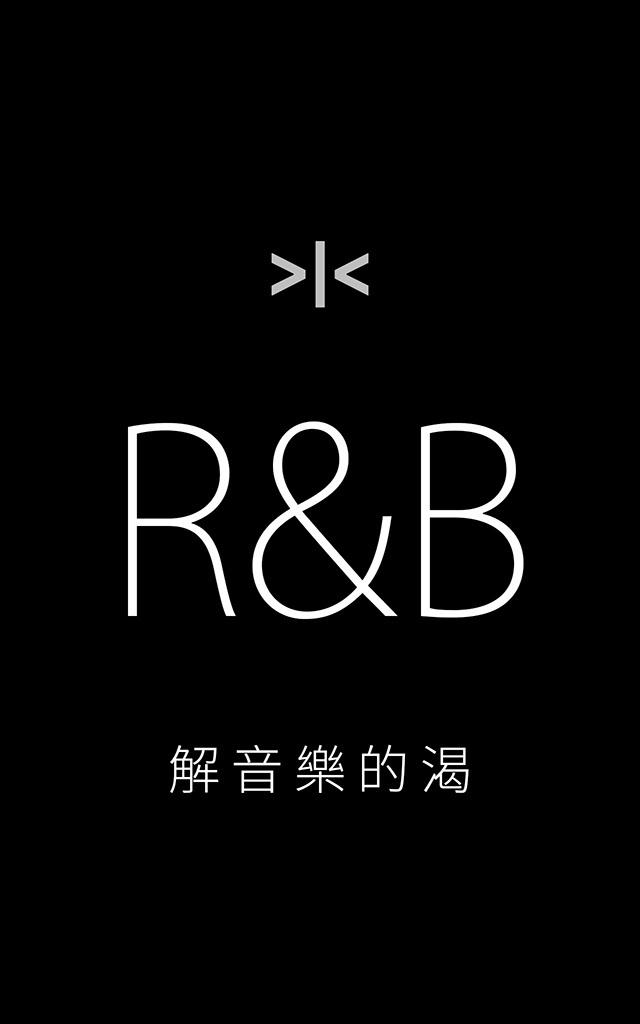
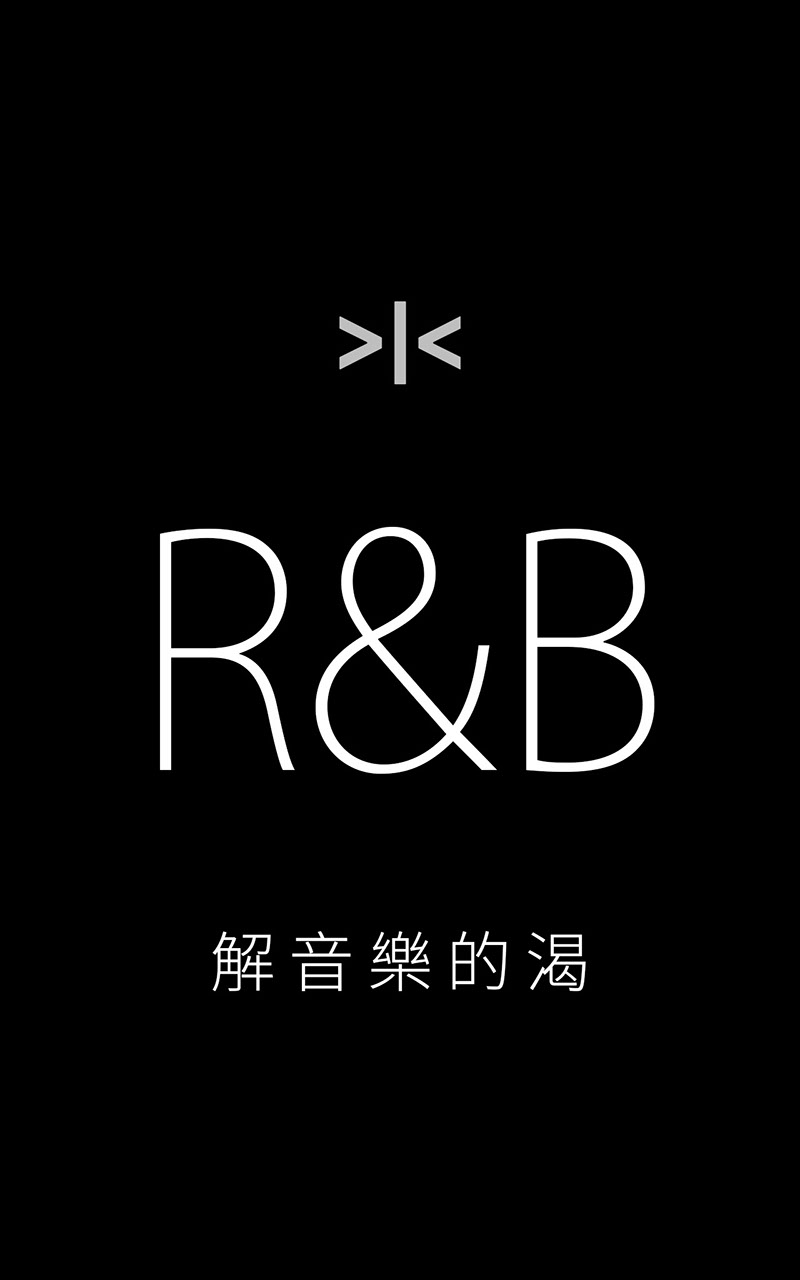
suisuisui

diff --git a/suisuisui/css/01.css b/suisuisui/css/01.css
@@ -1,1 +1,1 @@
-.version._01{color:#0000F1;background-color:#FFD65C;}#muse_css_mq{background-color:#FFFFFF;}#page{z-index:1;width:800px;min-height:1986px;background-image:none;border-width:0px;border-color:#000000;background-color:transparent;padding-bottom:62px;margin-left:auto;margin-right:auto;}#u185{z-index:2;min-height:1986px;background-color:#000000;}#u185_align_to_page{margin-left:auto;margin-right:auto;position:relative;width:800px;padding-bottom:120px;}#u183{z-index:3;width:640px;background-color:transparent;left:80px;position:relative;}#u181{z-index:7;width:128px;background-color:transparent;left:336px;margin-top:714px;position:relative;}.js body{visibility:hidden;}.js body.initialized{visibility:visible;}#u185-bw{z-index:2;min-height:1986px;}.css_verticalspacer .verticalspacer{height:calc(100vh - 2047px);}#u179{z-index:5;width:512px;background-color:transparent;position:relative;margin-right:-10000px;margin-top:-962px;left:144px;}.html{background-color:#000000;}body{position:relative;min-width:800px;}.verticalspacer{min-height:1px;}
+.version._01{color:#00001A;background-color:#3632C5;}#muse_css_mq{background-color:#FFFFFF;}#page{z-index:1;width:800px;min-height:1986px;background-image:none;border-width:0px;border-color:#000000;background-color:transparent;padding-bottom:62px;margin-left:auto;margin-right:auto;}#u185{z-index:2;min-height:1280px;background-color:#000000;padding-bottom:706px;}#u185_align_to_page{margin-left:auto;margin-right:auto;position:relative;width:800px;}#u183{z-index:3;width:800px;background-color:transparent;position:relative;margin-right:-10000px;}.js body{visibility:hidden;}.js body.initialized{visibility:visible;}#u185-bw{z-index:2;min-height:1280px;}.css_verticalspacer .verticalspacer{height:calc(100vh - 2047px);}#u179{z-index:5;width:512px;background-color:transparent;position:relative;margin-right:-10000px;margin-top:-706px;left:144px;}.html{background-color:#000000;}body{position:relative;min-width:800px;}.verticalspacer{min-height:1px;}

diff --git a/suisuisui/css/02.css b/suisuisui/css/02.css
@@ -1,1 +1,1 @@
-.version._02{color:#0000E3;background-color:#D44070;}#muse_css_mq{background-color:#FFFFFF;}#page{z-index:1;width:800px;min-height:1986px;background-image:none;border-width:0px;border-color:#000000;background-color:transparent;padding-bottom:62px;margin-left:auto;margin-right:auto;}#u225{z-index:2;min-height:1986px;background-color:#000000;}#u225_align_to_page{margin-left:auto;margin-right:auto;position:relative;width:800px;padding-bottom:120px;}#u223{z-index:3;width:640px;background-color:transparent;left:80px;position:relative;}#u221{z-index:7;width:128px;background-color:transparent;left:336px;margin-top:714px;position:relative;}.js body{visibility:hidden;}.js body.initialized{visibility:visible;}#u225-bw{z-index:2;min-height:1986px;}.css_verticalspacer .verticalspacer{height:calc(100vh - 2047px);}#u219{z-index:5;width:512px;background-color:transparent;position:relative;margin-right:-10000px;margin-top:-962px;left:144px;}.html{background-color:#000000;}body{position:relative;min-width:800px;}.verticalspacer{min-height:1px;}
+.version._02{color:#000007;background-color:#C301A1;}#muse_css_mq{background-color:#FFFFFF;}#page{z-index:1;width:800px;min-height:1986px;background-image:none;border-width:0px;border-color:#000000;background-color:transparent;padding-bottom:62px;margin-left:auto;margin-right:auto;}#u225{z-index:2;min-height:1280px;background-color:#000000;padding-bottom:706px;}#u225_align_to_page{margin-left:auto;margin-right:auto;position:relative;width:800px;}#u223{z-index:3;width:800px;background-color:transparent;position:relative;margin-right:-10000px;}.js body{visibility:hidden;}.js body.initialized{visibility:visible;}#u225-bw{z-index:2;min-height:1280px;}.css_verticalspacer .verticalspacer{height:calc(100vh - 2047px);}#u219{z-index:5;width:512px;background-color:transparent;position:relative;margin-right:-10000px;margin-top:-706px;left:144px;}.html{background-color:#000000;}body{position:relative;min-width:800px;}.verticalspacer{min-height:1px;}

diff --git a/suisuisui/css/03.css b/suisuisui/css/03.css
@@ -1,1 +1,1 @@
-.version._03{color:#00001B;background-color:#CFC62A;}#muse_css_mq{background-color:#FFFFFF;}#page{z-index:1;width:800px;min-height:1986px;background-image:none;border-width:0px;border-color:#000000;background-color:transparent;padding-bottom:62px;margin-left:auto;margin-right:auto;}#u239{z-index:2;min-height:1986px;background-color:#000000;}#u239_align_to_page{margin-left:auto;margin-right:auto;position:relative;width:800px;padding-bottom:120px;}#u237{z-index:3;width:640px;background-color:transparent;left:80px;position:relative;}#u235{z-index:7;width:128px;background-color:transparent;left:336px;margin-top:714px;position:relative;}.js body{visibility:hidden;}.js body.initialized{visibility:visible;}#u239-bw{z-index:2;min-height:1986px;}.css_verticalspacer .verticalspacer{height:calc(100vh - 2047px);}#u240{z-index:5;width:512px;background-color:transparent;position:relative;margin-right:-10000px;margin-top:-962px;left:144px;}.html{background-color:#000000;}body{position:relative;min-width:800px;}.verticalspacer{min-height:1px;}
+.version._03{color:#0000E2;background-color:#FF79B7;}#muse_css_mq{background-color:#FFFFFF;}#page{z-index:1;width:800px;min-height:1986px;background-image:none;border-width:0px;border-color:#000000;background-color:transparent;padding-bottom:62px;margin-left:auto;margin-right:auto;}#u239{z-index:2;min-height:1280px;background-color:#000000;padding-bottom:706px;}#u239_align_to_page{margin-left:auto;margin-right:auto;position:relative;width:800px;}#u237{z-index:3;width:800px;background-color:transparent;position:relative;margin-right:-10000px;}.js body{visibility:hidden;}.js body.initialized{visibility:visible;}#u239-bw{z-index:2;min-height:1280px;}.css_verticalspacer .verticalspacer{height:calc(100vh - 2047px);}#u240{z-index:5;width:512px;background-color:transparent;position:relative;margin-right:-10000px;margin-top:-706px;left:144px;}.html{background-color:#000000;}body{position:relative;min-width:800px;}.verticalspacer{min-height:1px;}

diff --git a/suisuisui/css/04.css b/suisuisui/css/04.css
@@ -1,1 +1,1 @@
-.version._04{color:#0000ED;background-color:#2154FC;}#muse_css_mq{background-color:#FFFFFF;}#page{z-index:1;width:800px;min-height:1986px;background-image:none;border-width:0px;border-color:#000000;background-color:transparent;padding-bottom:62px;margin-left:auto;margin-right:auto;}#u279{z-index:2;min-height:1986px;background-color:#000000;}#u279_align_to_page{margin-left:auto;margin-right:auto;position:relative;width:800px;padding-bottom:120px;}#u275{z-index:3;width:640px;background-color:transparent;left:80px;position:relative;}#u277{z-index:7;width:128px;background-color:transparent;left:336px;margin-top:714px;position:relative;}.js body{visibility:hidden;}.js body.initialized{visibility:visible;}#u279-bw{z-index:2;min-height:1986px;}.css_verticalspacer .verticalspacer{height:calc(100vh - 2047px);}#u280{z-index:5;width:512px;background-color:transparent;position:relative;margin-right:-10000px;margin-top:-962px;left:144px;}.html{background-color:#000000;}body{position:relative;min-width:800px;}.verticalspacer{min-height:1px;}
+.version._04{color:#000015;background-color:#7C0BF2;}#muse_css_mq{background-color:#FFFFFF;}#page{z-index:1;width:800px;min-height:1986px;background-image:none;border-width:0px;border-color:#000000;background-color:transparent;padding-bottom:62px;margin-left:auto;margin-right:auto;}#u279{z-index:2;min-height:1280px;background-color:#000000;padding-bottom:706px;}#u279_align_to_page{margin-left:auto;margin-right:auto;position:relative;width:800px;}#u275{z-index:3;width:800px;background-color:transparent;position:relative;margin-right:-10000px;}.js body{visibility:hidden;}.js body.initialized{visibility:visible;}#u279-bw{z-index:2;min-height:1280px;}.css_verticalspacer .verticalspacer{height:calc(100vh - 2047px);}#u280{z-index:5;width:512px;background-color:transparent;position:relative;margin-right:-10000px;margin-top:-706px;left:144px;}.html{background-color:#000000;}body{position:relative;min-width:800px;}.verticalspacer{min-height:1px;}

diff --git a/suisuisui/css/05.css b/suisuisui/css/05.css
@@ -1,1 +1,1 @@
-.version._05{color:#000016;background-color:#42BB26;}#muse_css_mq{background-color:#FFFFFF;}#page{z-index:1;width:800px;min-height:1986px;background-image:none;border-width:0px;border-color:#000000;background-color:transparent;padding-bottom:62px;margin-left:auto;margin-right:auto;}#u293{z-index:2;min-height:1986px;background-color:#000000;}#u293_align_to_page{margin-left:auto;margin-right:auto;position:relative;width:800px;padding-bottom:120px;}#u294{z-index:3;width:640px;background-color:transparent;left:80px;position:relative;}#u298{z-index:7;width:128px;background-color:transparent;left:336px;margin-top:714px;position:relative;}.js body{visibility:hidden;}.js body.initialized{visibility:visible;}#u293-bw{z-index:2;min-height:1986px;}.css_verticalspacer .verticalspacer{height:calc(100vh - 2047px);}#u296{z-index:5;width:512px;background-color:transparent;position:relative;margin-right:-10000px;margin-top:-962px;left:144px;}.html{background-color:#000000;}body{position:relative;min-width:800px;}.verticalspacer{min-height:1px;}
+.version._05{color:#0000E8;background-color:#5BD0AD;}#muse_css_mq{background-color:#FFFFFF;}#page{z-index:1;width:800px;min-height:1986px;background-image:none;border-width:0px;border-color:#000000;background-color:transparent;padding-bottom:62px;margin-left:auto;margin-right:auto;}#u293{z-index:2;min-height:1280px;background-color:#000000;padding-bottom:706px;}#u293_align_to_page{margin-left:auto;margin-right:auto;position:relative;width:800px;}#u294{z-index:3;width:800px;background-color:transparent;position:relative;margin-right:-10000px;}.js body{visibility:hidden;}.js body.initialized{visibility:visible;}#u293-bw{z-index:2;min-height:1280px;}.css_verticalspacer .verticalspacer{height:calc(100vh - 2047px);}#u296{z-index:5;width:512px;background-color:transparent;position:relative;margin-right:-10000px;margin-top:-706px;left:144px;}.html{background-color:#000000;}body{position:relative;min-width:800px;}.verticalspacer{min-height:1px;}

diff --git a/suisuisui/css/06.css b/suisuisui/css/06.css
@@ -1,1 +1,1 @@
-.version._06{color:#0000F4;background-color:#E1BB42;}#muse_css_mq{background-color:#FFFFFF;}#page{z-index:1;width:800px;min-height:1986px;background-image:none;border-width:0px;border-color:#000000;background-color:transparent;padding-bottom:62px;margin-left:auto;margin-right:auto;}#u340{z-index:2;min-height:1986px;background-color:#000000;}#u340_align_to_page{margin-left:auto;margin-right:auto;position:relative;width:800px;padding-bottom:120px;}#u338{z-index:3;width:640px;background-color:transparent;left:80px;position:relative;}#u341{z-index:7;width:128px;background-color:transparent;left:336px;margin-top:714px;position:relative;}.js body{visibility:hidden;}.js body.initialized{visibility:visible;}#u340-bw{z-index:2;min-height:1986px;}.css_verticalspacer .verticalspacer{height:calc(100vh - 2047px);}#u336{z-index:5;width:512px;background-color:transparent;position:relative;margin-right:-10000px;margin-top:-962px;left:144px;}.html{background-color:#000000;}body{position:relative;min-width:800px;}.verticalspacer{min-height:1px;}
+.version._06{color:#00000B;background-color:#06CE6A;}#muse_css_mq{background-color:#FFFFFF;}#page{z-index:1;width:800px;min-height:1986px;background-image:none;border-width:0px;border-color:#000000;background-color:transparent;padding-bottom:62px;margin-left:auto;margin-right:auto;}#u340{z-index:2;min-height:1280px;background-color:#000000;padding-bottom:706px;}#u340_align_to_page{margin-left:auto;margin-right:auto;position:relative;width:800px;}#u338{z-index:3;width:800px;background-color:transparent;position:relative;margin-right:-10000px;}.js body{visibility:hidden;}.js body.initialized{visibility:visible;}#u340-bw{z-index:2;min-height:1280px;}.css_verticalspacer .verticalspacer{height:calc(100vh - 2047px);}#u336{z-index:5;width:512px;background-color:transparent;position:relative;margin-right:-10000px;margin-top:-706px;left:144px;}.html{background-color:#000000;}body{position:relative;min-width:800px;}.verticalspacer{min-height:1px;}

diff --git a/suisuisui/css/07.css b/suisuisui/css/07.css
@@ -1,1 +1,1 @@
-.version._07{color:#00000C;background-color:#2E6E20;}#muse_css_mq{background-color:#FFFFFF;}#page{z-index:1;width:800px;min-height:1986px;background-image:none;border-width:0px;border-color:#000000;background-color:transparent;padding-bottom:62px;margin-left:auto;margin-right:auto;}#u364{z-index:2;min-height:1986px;background-color:#000000;}#u364_align_to_page{margin-left:auto;margin-right:auto;position:relative;width:800px;padding-bottom:120px;}#u369{z-index:3;width:640px;background-color:transparent;left:80px;position:relative;}#u367{z-index:7;width:128px;background-color:transparent;left:336px;margin-top:714px;position:relative;}.js body{visibility:hidden;}.js body.initialized{visibility:visible;}#u364-bw{z-index:2;min-height:1986px;}.css_verticalspacer .verticalspacer{height:calc(100vh - 2047px);}#u365{z-index:5;width:512px;background-color:transparent;position:relative;margin-right:-10000px;margin-top:-962px;left:144px;}.html{background-color:#000000;}body{position:relative;min-width:800px;}.verticalspacer{min-height:1px;}
+.version._07{color:#000001;background-color:#E4CE31;}#muse_css_mq{background-color:#FFFFFF;}#page{z-index:1;width:800px;min-height:1986px;background-image:none;border-width:0px;border-color:#000000;background-color:transparent;padding-bottom:62px;margin-left:auto;margin-right:auto;}#u364{z-index:2;min-height:1280px;background-color:#000000;padding-bottom:706px;}#u364_align_to_page{margin-left:auto;margin-right:auto;position:relative;width:800px;}#u369{z-index:3;width:800px;background-color:transparent;position:relative;margin-right:-10000px;}.js body{visibility:hidden;}.js body.initialized{visibility:visible;}#u364-bw{z-index:2;min-height:1280px;}.css_verticalspacer .verticalspacer{height:calc(100vh - 2047px);}#u365{z-index:5;width:512px;background-color:transparent;position:relative;margin-right:-10000px;margin-top:-706px;left:144px;}.html{background-color:#000000;}body{position:relative;min-width:800px;}.verticalspacer{min-height:1px;}

diff --git a/suisuisui/css/08.css b/suisuisui/css/08.css
@@ -1,1 +1,1 @@
-.version._08{color:#00001E;background-color:#03AC43;}#muse_css_mq{background-color:#FFFFFF;}#page{z-index:1;width:800px;min-height:1986px;background-image:none;border-width:0px;border-color:#000000;background-color:transparent;padding-bottom:62px;margin-left:auto;margin-right:auto;}#u380{z-index:2;min-height:1986px;background-color:#000000;}#u380_align_to_page{margin-left:auto;margin-right:auto;position:relative;width:800px;padding-bottom:120px;}#u385{z-index:3;width:640px;background-color:transparent;left:80px;position:relative;}#u381{z-index:7;width:128px;background-color:transparent;left:336px;margin-top:714px;position:relative;}.js body{visibility:hidden;}.js body.initialized{visibility:visible;}#u380-bw{z-index:2;min-height:1986px;}.css_verticalspacer .verticalspacer{height:calc(100vh - 2047px);}#u383{z-index:5;width:512px;background-color:transparent;position:relative;margin-right:-10000px;margin-top:-962px;left:144px;}.html{background-color:#000000;}body{position:relative;min-width:800px;}.verticalspacer{min-height:1px;}
+.version._08{color:#0000E8;background-color:#8C5A5D;}#muse_css_mq{background-color:#FFFFFF;}#page{z-index:1;width:800px;min-height:1986px;background-image:none;border-width:0px;border-color:#000000;background-color:transparent;padding-bottom:62px;margin-left:auto;margin-right:auto;}#u380{z-index:2;min-height:1280px;background-color:#000000;padding-bottom:706px;}#u380_align_to_page{margin-left:auto;margin-right:auto;position:relative;width:800px;}#u385{z-index:3;width:800px;background-color:transparent;position:relative;margin-right:-10000px;}.js body{visibility:hidden;}.js body.initialized{visibility:visible;}#u380-bw{z-index:2;min-height:1280px;}.css_verticalspacer .verticalspacer{height:calc(100vh - 2047px);}#u383{z-index:5;width:512px;background-color:transparent;position:relative;margin-right:-10000px;margin-top:-706px;left:144px;}.html{background-color:#000000;}body{position:relative;min-width:800px;}.verticalspacer{min-height:1px;}

diff --git a/suisuisui/css/09.css b/suisuisui/css/09.css
@@ -1,1 +1,1 @@
-.version._09{color:#0000EC;background-color:#7011D8;}#muse_css_mq{background-color:#FFFFFF;}#page{z-index:1;width:800px;min-height:1986px;background-image:none;border-width:0px;border-color:#000000;background-color:transparent;padding-bottom:62px;margin-left:auto;margin-right:auto;}#u409{z-index:2;min-height:1986px;background-color:#000000;}#u409_align_to_page{margin-left:auto;margin-right:auto;position:relative;width:800px;padding-bottom:120px;}#u410{z-index:3;width:640px;background-color:transparent;left:80px;position:relative;}#u412{z-index:7;width:128px;background-color:transparent;left:336px;margin-top:714px;position:relative;}.js body{visibility:hidden;}.js body.initialized{visibility:visible;}#u409-bw{z-index:2;min-height:1986px;}.css_verticalspacer .verticalspacer{height:calc(100vh - 2047px);}#u414{z-index:5;width:512px;background-color:transparent;position:relative;margin-right:-10000px;margin-top:-962px;left:144px;}.html{background-color:#000000;}body{position:relative;min-width:800px;}.verticalspacer{min-height:1px;}
+.version._09{color:#00001A;background-color:#54A1C3;}#muse_css_mq{background-color:#FFFFFF;}#page{z-index:1;width:800px;min-height:1986px;background-image:none;border-width:0px;border-color:#000000;background-color:transparent;padding-bottom:62px;margin-left:auto;margin-right:auto;}#u409{z-index:2;min-height:1280px;background-color:#000000;padding-bottom:706px;}#u409_align_to_page{margin-left:auto;margin-right:auto;position:relative;width:800px;}#u410{z-index:3;width:800px;background-color:transparent;position:relative;margin-right:-10000px;}.js body{visibility:hidden;}.js body.initialized{visibility:visible;}#u409-bw{z-index:2;min-height:1280px;}.css_verticalspacer .verticalspacer{height:calc(100vh - 2047px);}#u414{z-index:5;width:512px;background-color:transparent;position:relative;margin-right:-10000px;margin-top:-706px;left:144px;}.html{background-color:#000000;}body{position:relative;min-width:800px;}.verticalspacer{min-height:1px;}

diff --git a/suisuisui/css/10.css b/suisuisui/css/10.css
@@ -1,1 +1,1 @@
-.version._10{color:#0000E9;background-color:#7D31F4;}#muse_css_mq{background-color:#FFFFFF;}#page{z-index:1;width:800px;min-height:1986px;background-image:none;border-width:0px;border-color:#000000;background-color:transparent;padding-bottom:62px;margin-left:auto;margin-right:auto;}#u449{z-index:2;min-height:1986px;background-color:#000000;}#u449_align_to_page{margin-left:auto;margin-right:auto;position:relative;width:800px;padding-bottom:120px;}#u450{z-index:3;width:640px;background-color:transparent;left:80px;position:relative;}#u454{z-index:7;width:128px;background-color:transparent;left:336px;margin-top:714px;position:relative;}.js body{visibility:hidden;}.js body.initialized{visibility:visible;}#u449-bw{z-index:2;min-height:1986px;}.css_verticalspacer .verticalspacer{height:calc(100vh - 2047px);}#u452{z-index:5;width:512px;background-color:transparent;position:relative;margin-right:-10000px;margin-top:-962px;left:144px;}.html{background-color:#000000;}body{position:relative;min-width:800px;}.verticalspacer{min-height:1px;}
+.version._10{color:#0000EC;background-color:#79CADE;}#muse_css_mq{background-color:#FFFFFF;}#page{z-index:1;width:800px;min-height:1986px;background-image:none;border-width:0px;border-color:#000000;background-color:transparent;padding-bottom:62px;margin-left:auto;margin-right:auto;}#u449{z-index:2;min-height:1280px;background-color:#000000;padding-bottom:706px;}#u449_align_to_page{margin-left:auto;margin-right:auto;position:relative;width:800px;}#u450{z-index:3;width:800px;background-color:transparent;position:relative;margin-right:-10000px;}.js body{visibility:hidden;}.js body.initialized{visibility:visible;}#u449-bw{z-index:2;min-height:1280px;}.css_verticalspacer .verticalspacer{height:calc(100vh - 2047px);}#u452{z-index:5;width:512px;background-color:transparent;position:relative;margin-right:-10000px;margin-top:-706px;left:144px;}.html{background-color:#000000;}body{position:relative;min-width:800px;}.verticalspacer{min-height:1px;}

diff --git a/suisuisui/10.html b/suisuisui/10.html
@@ -17,19 +17,16 @@ if(typeof Muse == "undefined") window.Muse = {}; window.Muse.assets = {"required
   <title>SUI</title>
   <!-- CSS -->
   <link rel="stylesheet" type="text/css" href="css/site_global.css?crc=444006867"/>
-  <link rel="stylesheet" type="text/css" href="css/10.css?crc=3917296116" id="pagesheet"/>
+  <link rel="stylesheet" type="text/css" href="css/10.css?crc=3967404766" id="pagesheet"/>
    </head>
  <body>
 
   <div class="clearfix" id="page"><!-- group -->
    <div class="browser_width grpelem" id="u449-bw">
-    <div id="u449"><!-- column -->
+    <div id="u449"><!-- group -->
      <div class="clearfix" id="u449_align_to_page">
-      <div class="clip_frame colelem" id="u450"><!-- image -->
-       <img class="block" id="u450_img" src="images/sui-page-top.jpg?crc=110526805" data-hidpi-src="images/sui-page-top_2x.jpg?crc=3957464895" alt="" width="640" height="1024"/>
-      </div>
-      <div class="clip_frame colelem" id="u454"><!-- image -->
-       <img class="block" id="u454_img" src="images/enter.gif?crc=4065553534" data-hidpi-src="images/enter_2x.gif?crc=4065553534" alt="" width="128" height="128"/>
+      <div class="clip_frame grpelem" id="u450"><!-- image -->
+       <img class="block" id="u450_img" src="images/sui-page-top.jpg?crc=273884834" alt="" width="800" height="1280"/>
       </div>
      </div>
     </div>

diff --git a/suisuisui/01.html b/suisuisui/01.html
@@ -17,19 +17,16 @@ if(typeof Muse == "undefined") window.Muse = {}; window.Muse.assets = {"required
   <title>SUI</title>
   <!-- CSS -->
   <link rel="stylesheet" type="text/css" href="css/site_global.css?crc=444006867"/>
-  <link rel="stylesheet" type="text/css" href="css/01.css?crc=4060075612" id="pagesheet"/>
+  <link rel="stylesheet" type="text/css" href="css/01.css?crc=439759557" id="pagesheet"/>
    </head>
  <body>
 
   <div class="clearfix" id="page"><!-- group -->
    <div class="browser_width grpelem" id="u185-bw">
-    <div id="u185"><!-- column -->
+    <div id="u185"><!-- group -->
      <div class="clearfix" id="u185_align_to_page">
-      <div class="clip_frame colelem" id="u183"><!-- image -->
-       <img class="block" id="u183_img" src="images/sui-page-top.jpg?crc=110526805" data-hidpi-src="images/sui-page-top_2x.jpg?crc=3957464895" alt="" width="640" height="1024"/>
-      </div>
-      <div class="clip_frame colelem" id="u181"><!-- image -->
-       <img class="block" id="u181_img" src="images/enter.gif?crc=4065553534" data-hidpi-src="images/enter_2x.gif?crc=4065553534" alt="" width="128" height="128"/>
+      <div class="clip_frame grpelem" id="u183"><!-- image -->
+       <img class="block" id="u183_img" src="images/sui-page-top.jpg?crc=273884834" alt="" width="800" height="1280"/>
       </div>
      </div>
     </div>
